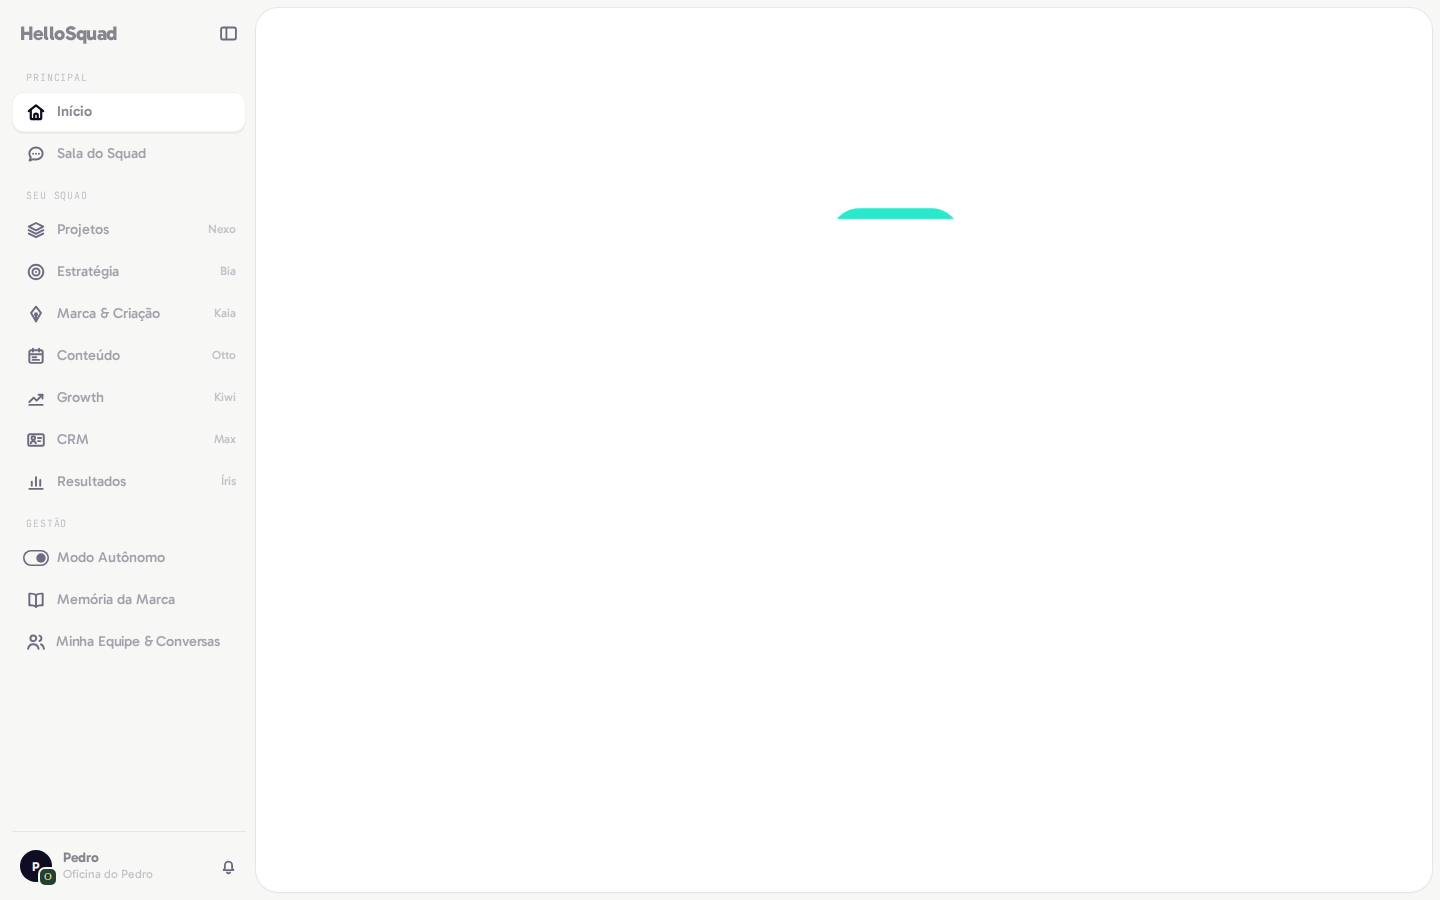
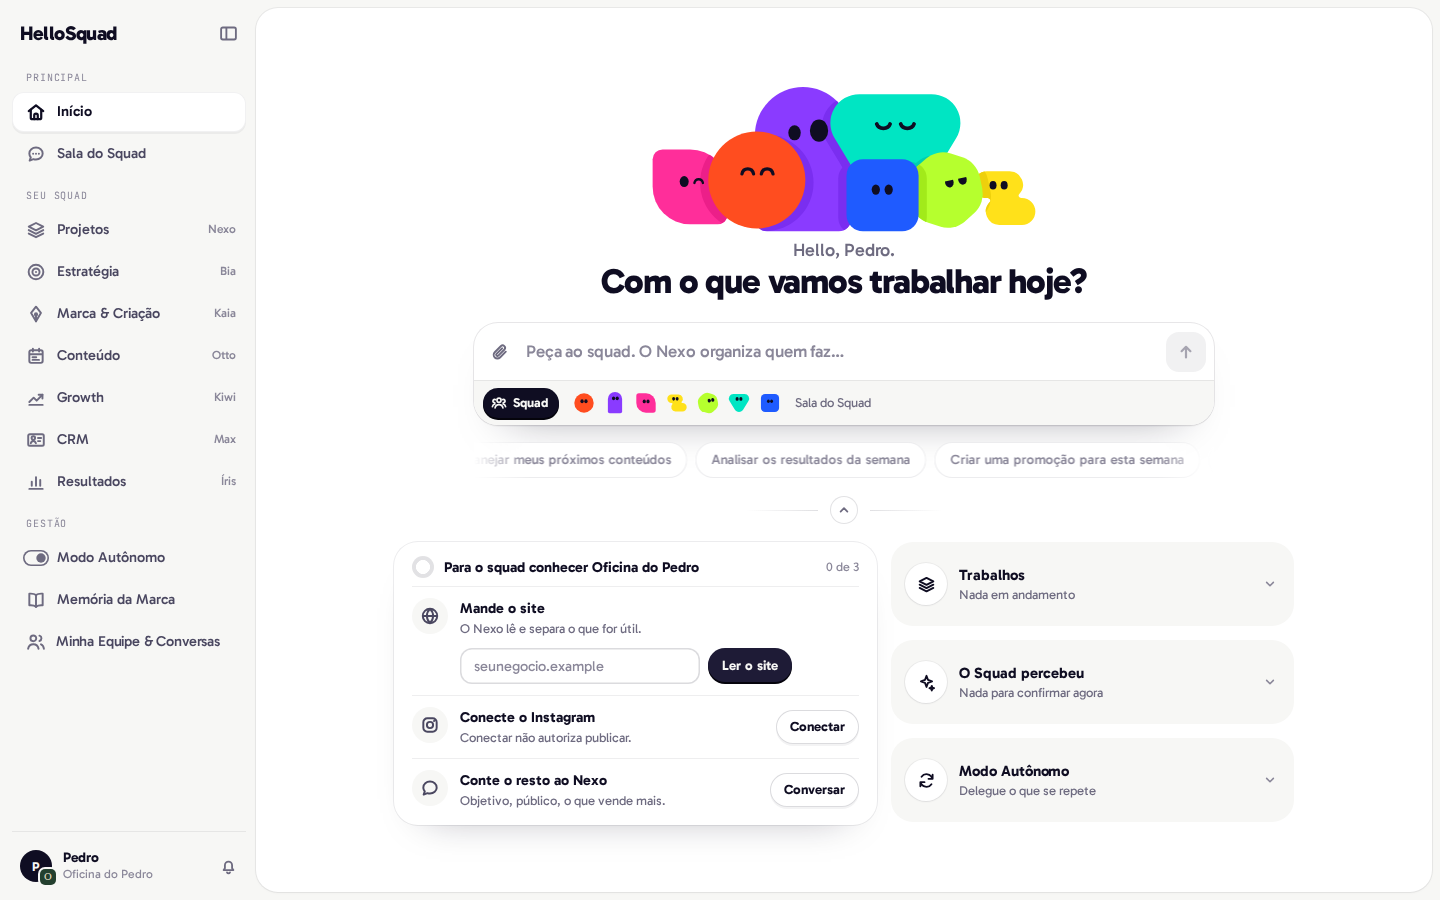
A2a: capturas do e2e depois das animações de entrada e lado a lado com a V4.6 (primeiro acesso, objetivo)

diff --git a/apps/web/e2e/helpers.ts b/apps/web/e2e/helpers.ts
@@ -14,5 +14,14 @@ export async function snap(page: Page, name: string) {
   const dir = process.env.E2E_SCREENSHOTS;
   if (!dir) return;
   await expect(page.locator("body")).toBeVisible();
+  // Entradas animadas (o squad caindo no Início, a mensagem que aparece) começam com opacidade 0: o toBeVisible já
+  // passa, mas a captura sairia vazia. Espera as animações finitas terminarem (as infinitas, como a faixa, não contam).
+  await page
+    .waitForFunction(
+      () => document.getAnimations().every((a) => a.effect?.getTiming().iterations === Infinity || a.playState !== "running"),
+      undefined,
+      { timeout: 6_000 },
+    )
+    .catch(() => undefined);
   await page.screenshot({ path: path.resolve(dir, `${name}.png`) });
 }
